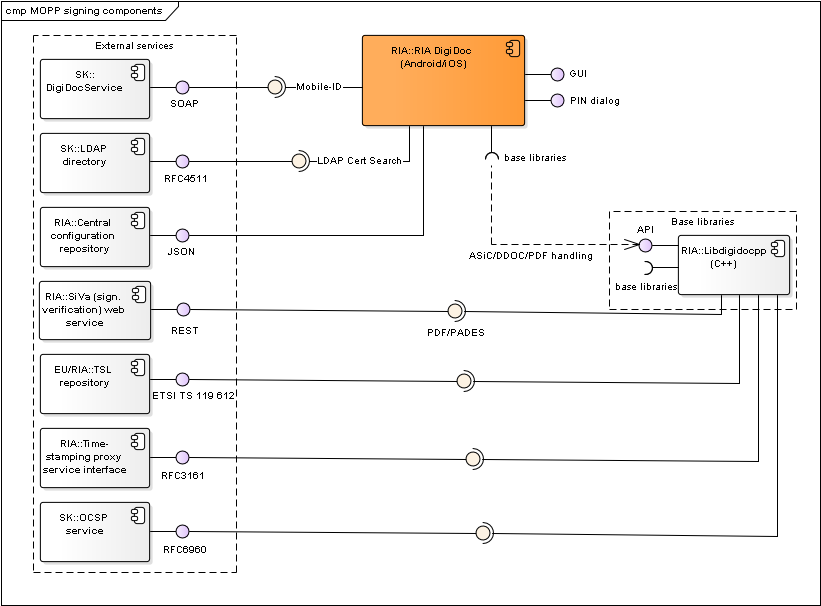
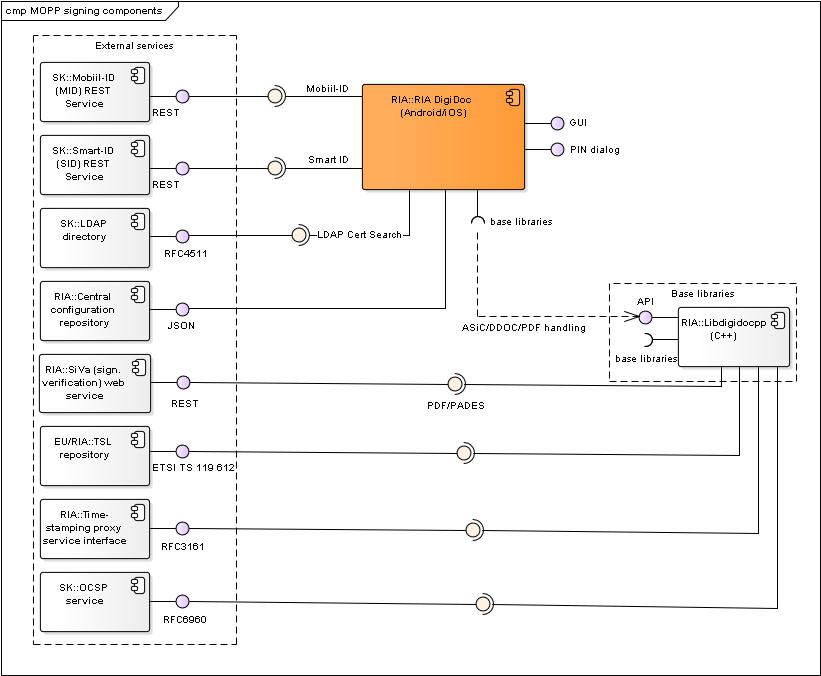
Update site

diff --git a/index.html b/index.html
@@ -126,9 +126,9 @@
                     <div class="col-md-9" role="main">
 
 <h1 id="architecture-of-id-software"><a name="home">ARCHITECTURE OF ID-SOFTWARE</a></h1>
-<p>Document version: 2.1<br />
+<p>Document version: 2.2<br />
 Software version: 20.05<br />
-Last updated: 26.06.2020  </p>
+Last updated: 09.09.2020  </p>
 <h1 id="introduction"><a name="_intro">Introduction</a></h1>
 <p>The purpose of this document is to describe the architecture of ID-software.</p>
 <p><strong>ID-software</strong> is a collection of software components offering support for PKI-based functionality, i.e. operations with different cryptographic tokens (e.g. eID cards), handling digitally signed documents, file encryption/decryption and signing and authentication in web environment. The ID-software comprises end-user applications, software libraries, web components, drivers for communicating with the cryptographic tokens and other complementary components.</p>
@@ -633,8 +633,13 @@ Note that not all of the external base libraries are included in the component m
 <td>-</td>
 </tr>
 <tr>
-<td>DigiDocService</td>
-<td>SOAP service that is used by RIA DigiDoc for signature creation with Mobile-ID. See also <a href="https://sk-eid.github.io/dds-documentation/">https://sk-eid.github.io/dds-documentation/</a>.</td>
+<td>Mobile-ID (MID) REST service</td>
+<td>REST service that is used by RIA DigiDoc for signature creation with Mobile-ID. See also <a href="https://github.com/sk-eid/mid">https://github.com/sk-eid/mid</a>.</td>
+<td>SK</td>
+</tr>
+<tr>
+<td>Smart-ID (SID) REST service</td>
+<td>REST service that is used by RIA DigiDoc for signature creation with Smart-ID. See also <a href="https://github.com/SK-EID/smart-id-documentation">https://github.com/SK-EID/smart-id-documentation</a>.</td>
 <td>SK</td>
 </tr>
 <tr>
@@ -703,7 +708,8 @@ Note that not all of the external base libraries are included in the component m
 <p>Required:</p>
 <ul>
 <li><a href="#_comp_central_conf_server_interfaces">Central configuration server interface</a></li>
-<li><a href="#_DigiDocService">DigiDocService</a></li>
+<li><a href="#_MID_REST_service">Mobile-ID (MID) REST service</a></li>
+<li><a href="#_SID_REST_service">Smart-ID (MID) REST service</a></li>
 <li><a href="#_LDAP_directory_interface">LDAP directory interface</a></li>
 <li>Interfaces with base libraries:<ul>
 <li><a href="#_Libdigidocpp_library’s_interfaces">Libdigidocpp library’s API</a> – for handling documents in supported digital signature formats (BDOC and DDOC)</li>
@@ -859,7 +865,7 @@ Note that not all of the external base libraries are included in the component m
 <p>Provided:</p>
 <ul>
 <li><a href="http://open-eid.github.io/libdigidocpp">Libdigidocpp API</a><ul>
-<li>User: DigiDoc4 Client, Libdigidocpp utility program, DigiDocCSharp .NET wrapper classes</li>
+<li>User: DigiDoc4 Client, RIA DigiDoc, Libdigidocpp utility program, DigiDocCSharp .NET wrapper classes</li>
 <li>Accessible with: C++</li>
 </ul>
 </li>
@@ -1475,23 +1481,15 @@ Note that not all of the external base libraries are included in the component m
 <p><a name="_MID_REST_service"></a></p>
 <h4 id="mobile-id-rest-service">Mobile-ID REST service</h4>
 <ul>
-<li>User: DigiDoc4 Client</li>
+<li>User: DigiDoc4 Client, RIA DigiDoc</li>
 <li>Accessible with: REST over HTTPS</li>
 <li>Accessible from: <a href="https://dd-mid.ria.ee/mid-api">https://dd-mid.ria.ee/mid-api</a>, <a href="https://mid.sk.ee/mid-api">https://mid.sk.ee/mid-api</a></li>
 <li>Documentation: <a href="https://github.com/sk-eid/mid">https://github.com/sk-eid/mid</a></li>
 </ul>
-<p><a name="_DigiDocService"></a></p>
-<h4 id="digidocservice">DigiDocService</h4>
-<ul>
-<li>User: RIA DigiDoc</li>
-<li>Accessible with: SOAP over HTTPS</li>
-<li>Accessible from: <a href="https://digidocservice.sk.ee">https://digidocservice.sk.ee</a></li>
-<li>Documentation: <a href="https://sk-eid.github.io/dds-documentation/">https://sk-eid.github.io/dds-documentation/</a></li>
-</ul>
 <p><a name="_SID_REST_service"></a></p>
 <h4 id="smart-id-rest-service">Smart-ID REST service</h4>
 <ul>
-<li>User: DigiDoc4 Client</li>
+<li>User: DigiDoc4 Client, RIA DigiDoc</li>
 <li>Accessible with: REST over HTTPS</li>
 <li>Accessible from: <a href="https://dd-sid.ria.ee/v1">https://dd-sid.ria.ee/v1</a>, <a href="https://rp-api.smart-id.com/v1">https://rp-api.smart-id.com/v1</a></li>
 <li>Documentation: <a href="https://github.com/SK-EID/smart-id-documentation">https://github.com/SK-EID/smart-id-documentation</a></li>
@@ -1595,7 +1593,8 @@ Note that not all of the external base libraries are included in the component m
 <ul>
 <li>RIA DigiDoc is used for creating the ASiC container and adding the signature value to the container.</li>
 <li>Long term validation data is added to the ASiC signature by obtaining OCSP confirmation and a time-stamp.</li>
-<li>DigiDocService SOAP services is required in order to sign with Mobile-ID.</li>
+<li>Mobile-ID REST services is required in order to sign with Mobile-ID.</li>
+<li>Smart-ID REST services is required in order to sign with Smart-ID.</li>
 <li>Signature value is calculated either in the Mobile-ID SIM card or ID-card’s chip.</li>
 <li>Trust anchor data is retrieved from TSL lists – the European Commission’s central TSL and national TSL’s of the EU member states.</li>
 </ul></div>
@@ -1682,5 +1681,5 @@ Note that not all of the external base libraries are included in the component m
 
 <!--
 MkDocs version : 1.1.2
-Build Date UTC : 2020-07-01 08:32:37.412824+00:00
+Build Date UTC : 2020-09-11 17:13:38.334036+00:00
 -->
